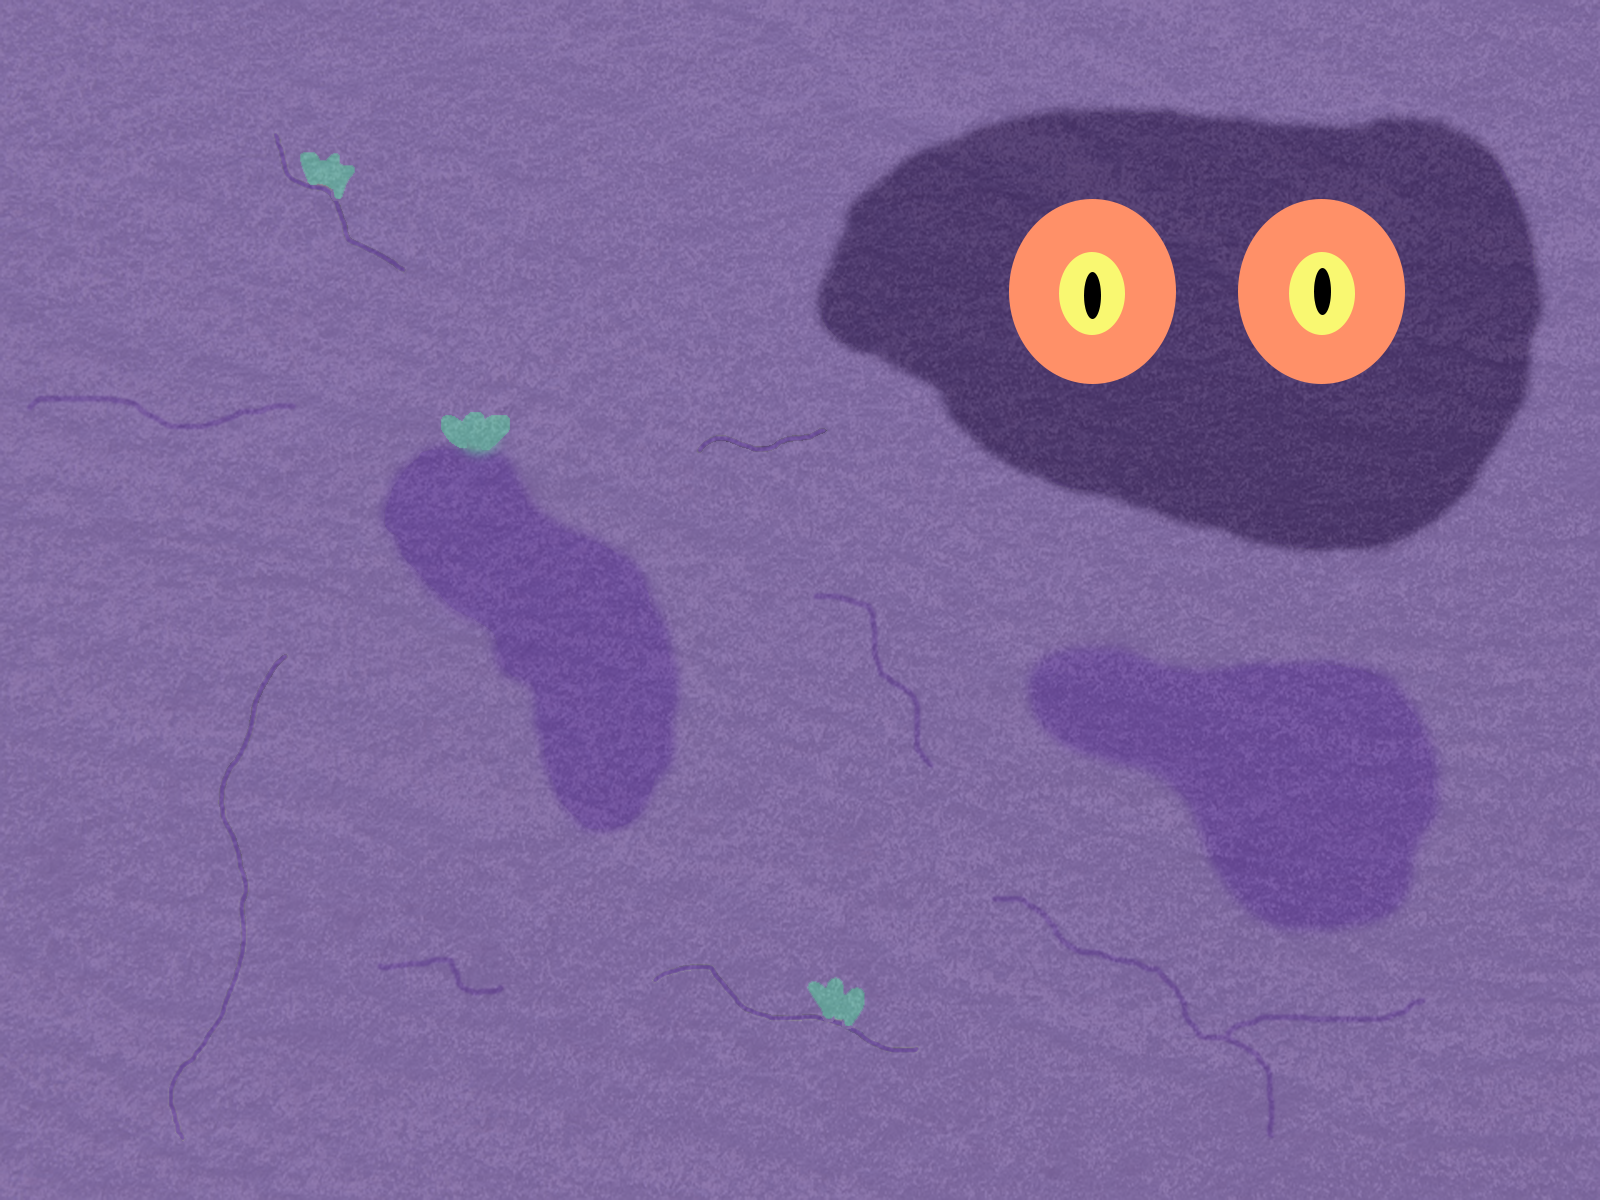
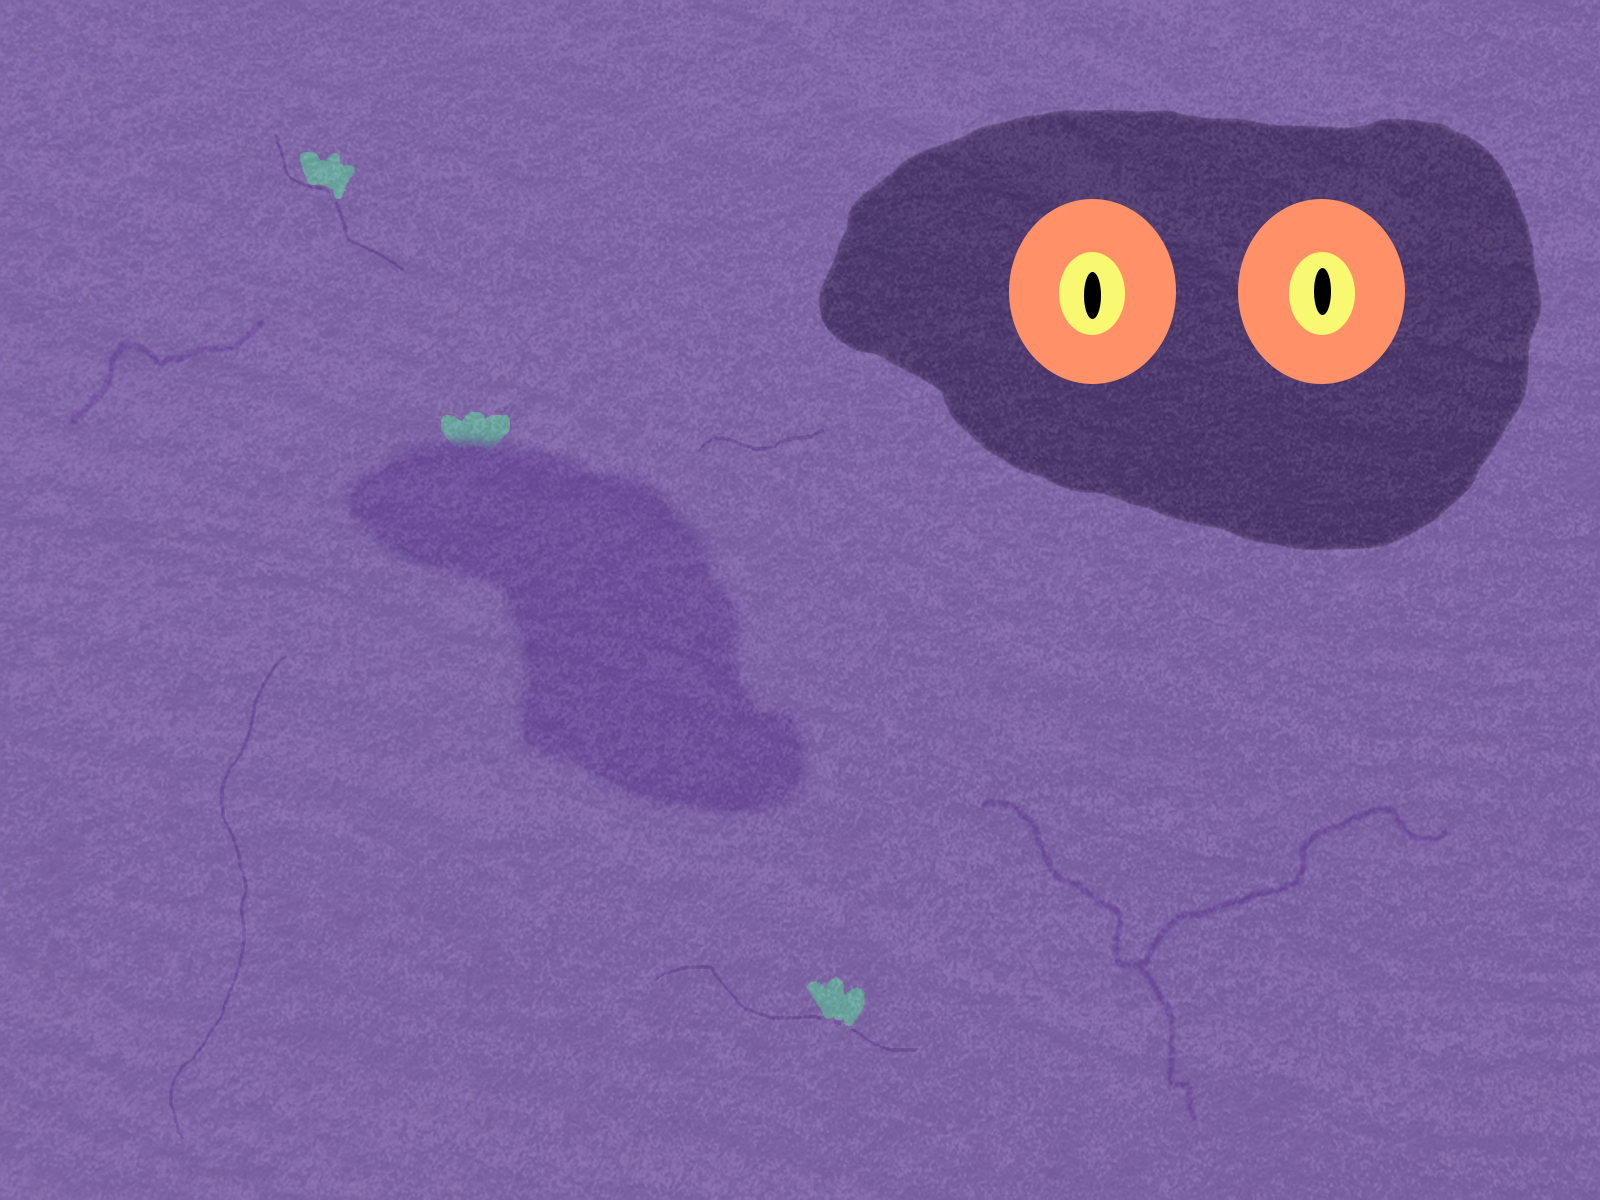
Corrección de fondo 2 y fondo 3

diff --git a/Source/States/mainMenu.js b/Source/States/mainMenu.js
@@ -9,8 +9,8 @@ mainMenuState.prototype = {
     },
 
     create: function() {
-        game.state.start("platformGameplayState");
-        //game.state.start("platformPiezasState");
+        //game.state.start("platformGameplayState");
+        game.state.start("platformPiezasState");
     },
 
     update: function() {
